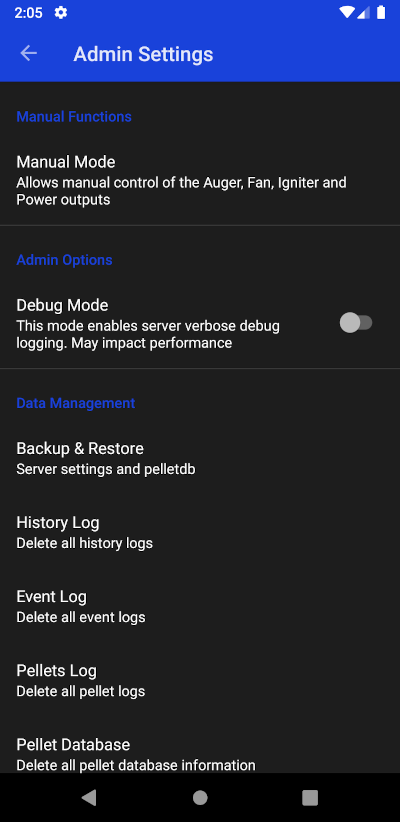
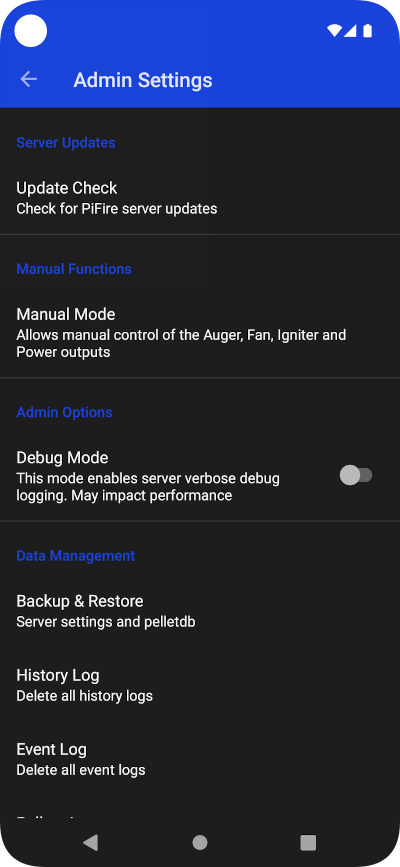
Correct text sizes for Recipes Alerter and Alerter buttons. Update README.md and screenshots

diff --git a/app/src/main/java/com/weberbox/pifire/ui/fragments/RecipesFragment.java b/app/src/main/java/com/weberbox/pifire/ui/fragments/RecipesFragment.java
@@ -238,7 +238,7 @@ public class RecipesFragment extends Fragment implements OnRecipeItemCallback,
                         .setIcon(R.drawable.ic_delete)
                         .setBackgroundColorRes(R.color.colorPrimaryLighter)
                         .setDuration(3000)
-                        .setTextAppearance(R.style.Text14Aller)
+                        .setTextAppearance(R.style.Text14AllerBold)
                         .setIconSize(R.dimen.alerter_icon_size_small)
                         .addButton(getString(R.string.undo), R.style.AlerterButton, v -> {
                             for (Map.Entry<Integer, RecipesModel> pair : delRecipe.entrySet()) {

diff --git a/README.md b/README.md
@@ -9,9 +9,9 @@ Dashboard | History | Event Log | Pellet Manager
 ----------|---------|-----------|----------------
 ![Dashboard](docs/screenshots/dashboard.png) | ![History](docs/screenshots/history.png) | ![Event Log](docs/screenshots/eventlog.png) | ![Pellet Manager](docs/screenshots/pelletmanager.png)
 
-Settings | Work Mode | Admin | Drawer
----------|-----------|-------|--------
-![Settings](docs/screenshots/settings.png) | ![Settings / Work Mode](docs/screenshots/workmode.png) | ![Admin](docs/screenshots/admin.png) | ![Drawer](docs/screenshots/drawer.png)
+Recipes | Updater | Admin | Drawer
+--------|---------|-------|--------
+![Recipes](docs/screenshots/recipes.png) | ![Updater](docs/screenshots/updater.png) | ![Admin](docs/screenshots/admin.png) | ![Drawer](docs/screenshots/drawer.png)
 
 ## Documentation
 
